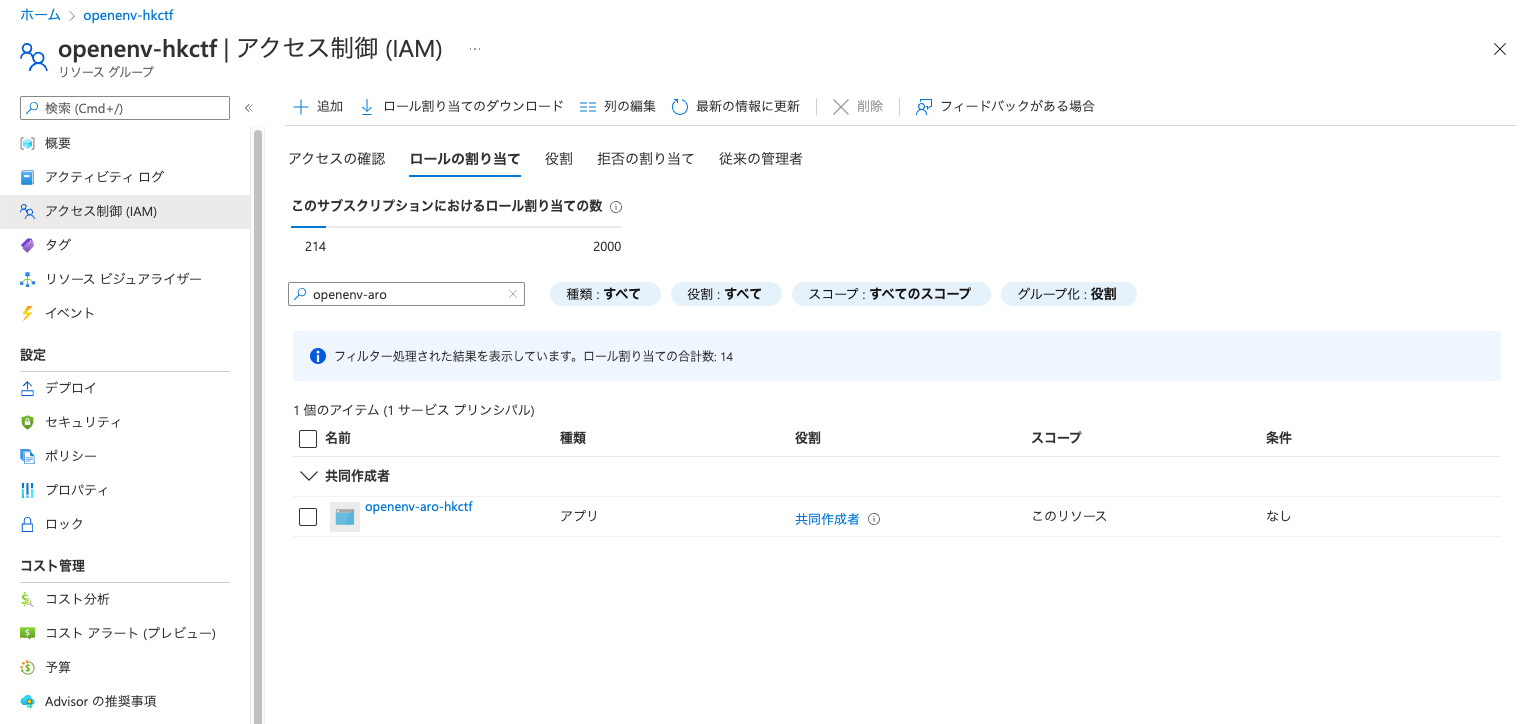
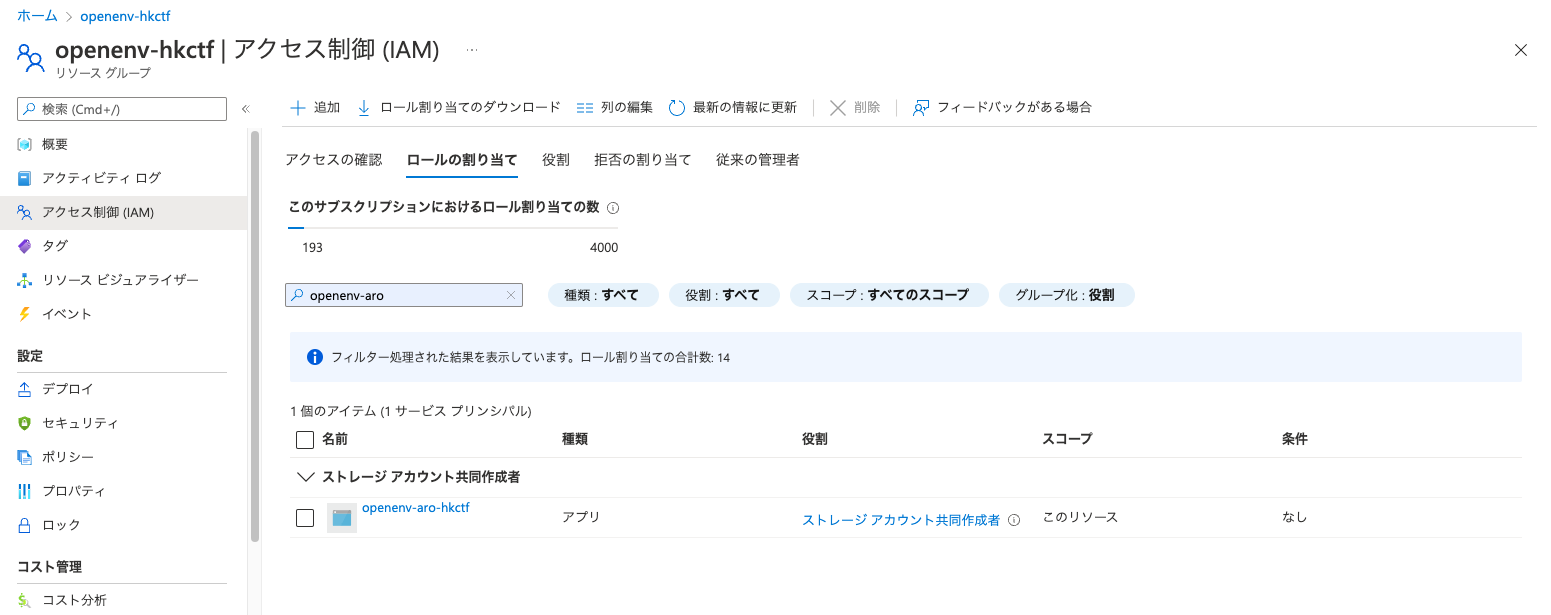
updated

diff --git a/docs/aro-volume/README.md b/docs/aro-volume/README.md
@@ -111,10 +111,10 @@ $ az storage account create -n arofilesXXXXXsa -g openenv-XXXXX --sku Standard_L
 <div style="text-align: center;">Azure ストレージアカウントの表示</div>　　
 
 
-最初にご紹介した「AROクラスターの作成」手順で利用したAROのサービスプリンシパルに対して、作成したストレージアカウントのリソースグループに対するアクセス許可が必要となるので、これを「az role assignment」コマンドで設定します。ここでは、「Contributor(共同作成者)」の権限を割り当てて、全てのリソースを管理するためのフルアクセス権限を付与しています。
+最初にご紹介した「AROクラスターの作成」手順で利用したAROのサービスプリンシパルに対して、作成したストレージアカウントのリソースグループに対するアクセス許可が必要となるので、これを「az role assignment」コマンドで設定します。ここでは、「Storage Account Contributor」の権限を割り当てて、ストレージに関する管理権限を割り当てています。
 
 ```
-$ az role assignment create --role Contributor --scope /subscriptions/<AzureのサブスクリプションID>/resourceGroups/<Azureストレージアカウントを作成したリソースグループの名前> --assignee <AROサービスプリンシパルのアプリケーションID>
+$ az role assignment create --role "storage account contributor" --scope /subscriptions/<AzureのサブスクリプションID>/resourceGroups/<Azureストレージアカウントを作成したリソースグループの名前> --assignee <AROサービスプリンシパルのアプリケーションID>
 ```
 
 ロールの割り当て結果は、Azure Portalで次のように表示されます。ここでは、「openenv-aro-XXXXX」というAROのサービスプリンシパルに対して、「openenv-XXXXX」リソースグループに対する権限が設定されています。
